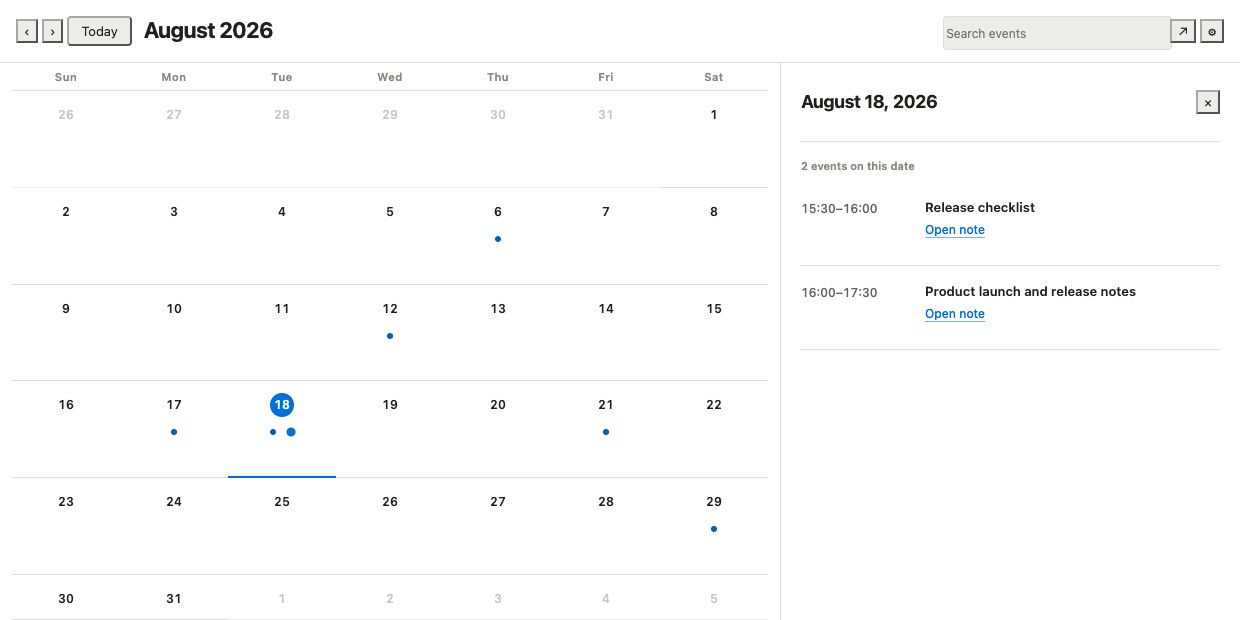
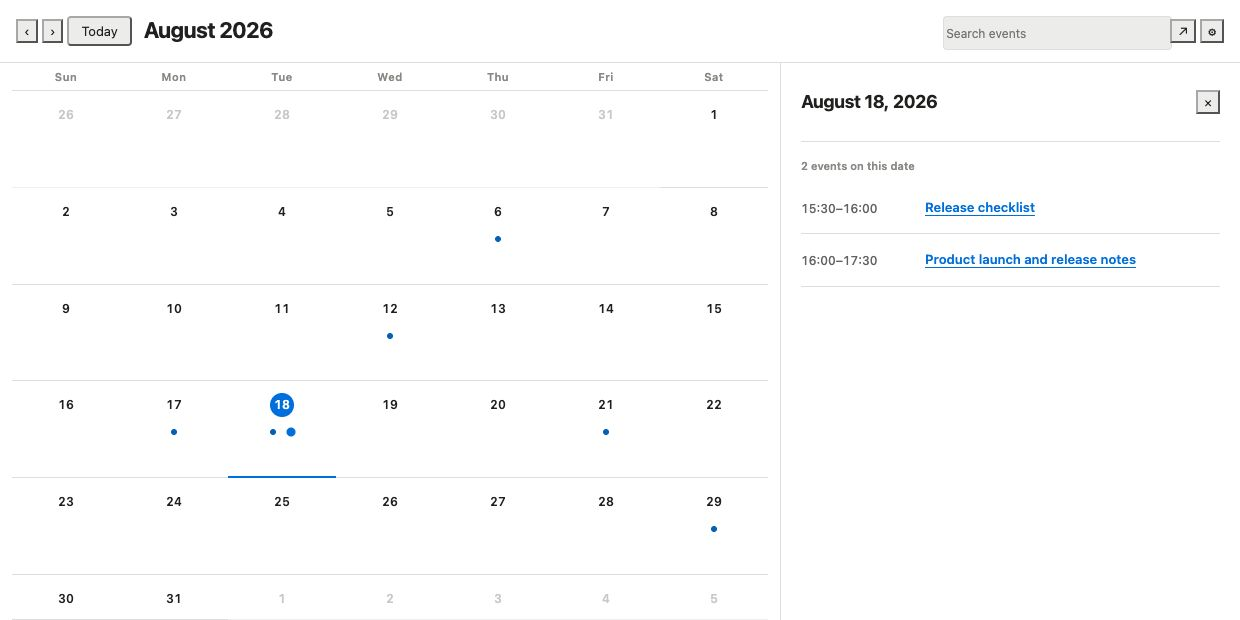
fix: use direct agenda title links

Changed region(s): [[0.7355, 0.3065, 0.9194, 0.521], [0.6435, 0.4597, 0.7048, 0.4903], [0.6435, 0.3984, 0.7048, 0.429]]

diff --git a/tests/fixtures/link-calendar-dark.html b/tests/fixtures/link-calendar-dark.html
@@ -4,7 +4,7 @@
   <meta charset="utf-8">
   <meta name="viewport" content="width=device-width, initial-scale=1">
   <title>Link Calendar dark fixture</title>
-  <link rel="stylesheet" href="../../styles.css">
+  <link rel="stylesheet" href="../../styles.css?v=3.1.3">
   <style>
     :root {
       --background-primary: #191919;
@@ -148,8 +148,8 @@
             <div class="link-calendar__side-topbar"><div class="link-calendar__side-date">August 18, 2026</div><button>×</button></div>
             <div class="link-calendar__agenda">
               <div class="link-calendar__agenda-label">2 events on this date</div>
-              <div class="link-calendar__agenda-item"><time class="link-calendar__agenda-time">15:30–16:00</time><div class="link-calendar__agenda-identity"><div class="link-calendar__agenda-title">Release checklist</div><button class="link-calendar__agenda-link" aria-label="Open note: Release checklist" title="Open note: Release checklist"></button></div></div>
-              <div class="link-calendar__agenda-item is-active"><time class="link-calendar__agenda-time">16:00–17:30</time><div class="link-calendar__agenda-identity"><div class="link-calendar__agenda-title">Product launch and release notes</div><button class="link-calendar__agenda-link" aria-label="Open note: Product launch and release notes" title="Open note: Product launch and release notes"></button></div></div>
+              <div class="link-calendar__agenda-item"><time class="link-calendar__agenda-time">15:30–16:00</time><div class="link-calendar__agenda-identity"><a class="link-calendar__agenda-link internal-link" href="Calendar/Release checklist.md" data-href="Calendar/Release checklist.md" aria-label="Open note: Release checklist" title="Open note: Release checklist">Release checklist</a></div></div>
+              <div class="link-calendar__agenda-item is-active"><time class="link-calendar__agenda-time">16:00–17:30</time><div class="link-calendar__agenda-identity"><a class="link-calendar__agenda-link internal-link" href="Calendar/Product launch and release notes.md" data-href="Calendar/Product launch and release notes.md" aria-label="Open note: Product launch and release notes" title="Open note: Product launch and release notes">Product launch and release notes</a></div></div>
             </div>
           </aside>
         </div>

diff --git a/styles.css b/styles.css
@@ -71,7 +71,6 @@
   --cc-calendar-day-number-size: calc(var(--cc-space-4) + var(--cc-space-2));
   --cc-calendar-grid-line: var(--border-width);
   --cc-calendar-agenda-time-min: 108px;
-  --cc-calendar-agenda-link-height: 28px;
   --cc-calendar-optical-shift: 2px;
   --cc-calendar-underline-offset: 3px;
   --cc-calendar-selected-offset: -1px;
@@ -576,41 +575,30 @@
   min-width: 0;
 }
 
-.link-calendar__agenda-title {
-  width: 100%;
+.link-calendar a.link-calendar__agenda-link {
+  display: block;
+  width: fit-content;
+  max-width: 100%;
   overflow: hidden;
-  color: var(--cc-text-primary);
+  color: var(--cc-accent);
   font-size: var(--cc-font-md);
   font-weight: var(--cc-weight-semibold);
   line-height: var(--cc-line-height);
+  text-decoration-line: underline;
+  text-decoration-thickness: from-font;
+  text-underline-offset: var(--cc-calendar-underline-offset);
   text-overflow: ellipsis;
   white-space: nowrap;
 }
 
-.link-calendar button.link-calendar__agenda-link {
-  display: inline-flex;
-  align-items: center;
-  justify-content: center;
-  width: var(--cc-calendar-agenda-link-height);
-  min-height: var(--cc-calendar-agenda-link-height);
-  margin: var(--cc-space-1) 0 0;
-  padding: 0;
-  border: 0;
-  border-radius: var(--cc-radius-sm);
-  color: var(--cc-accent);
-  background: transparent;
-  box-shadow: none;
-}
-
-.link-calendar button.link-calendar__agenda-link:hover {
+.link-calendar a.link-calendar__agenda-link:hover {
   color: var(--cc-accent-hover);
-  background: var(--cc-control-hover);
 }
 
-.link-calendar button.link-calendar__agenda-link svg {
-  width: var(--cc-icon-size);
-  height: var(--cc-icon-size);
-  stroke-width: 1.8;
+.link-calendar a.link-calendar__agenda-link:focus-visible {
+  border-radius: var(--cc-radius-xs);
+  outline: var(--cc-focus-width) solid var(--cc-focus);
+  outline-offset: var(--cc-space-1);
 }
 
 .link-calendar__diagnostics {

diff --git a/src/styles/event-detail.css b/src/styles/event-detail.css
@@ -90,41 +90,30 @@
   min-width: 0;
 }
 
-.link-calendar__agenda-title {
-  width: 100%;
+.link-calendar a.link-calendar__agenda-link {
+  display: block;
+  width: fit-content;
+  max-width: 100%;
   overflow: hidden;
-  color: var(--cc-text-primary);
+  color: var(--cc-accent);
   font-size: var(--cc-font-md);
   font-weight: var(--cc-weight-semibold);
   line-height: var(--cc-line-height);
+  text-decoration-line: underline;
+  text-decoration-thickness: from-font;
+  text-underline-offset: var(--cc-calendar-underline-offset);
   text-overflow: ellipsis;
   white-space: nowrap;
 }
 
-.link-calendar button.link-calendar__agenda-link {
-  display: inline-flex;
-  align-items: center;
-  justify-content: center;
-  width: var(--cc-calendar-agenda-link-height);
-  min-height: var(--cc-calendar-agenda-link-height);
-  margin: var(--cc-space-1) 0 0;
-  padding: 0;
-  border: 0;
-  border-radius: var(--cc-radius-sm);
-  color: var(--cc-accent);
-  background: transparent;
-  box-shadow: none;
-}
-
-.link-calendar button.link-calendar__agenda-link:hover {
+.link-calendar a.link-calendar__agenda-link:hover {
   color: var(--cc-accent-hover);
-  background: var(--cc-control-hover);
 }
 
-.link-calendar button.link-calendar__agenda-link svg {
-  width: var(--cc-icon-size);
-  height: var(--cc-icon-size);
-  stroke-width: 1.8;
+.link-calendar a.link-calendar__agenda-link:focus-visible {
+  border-radius: var(--cc-radius-xs);
+  outline: var(--cc-focus-width) solid var(--cc-focus);
+  outline-offset: var(--cc-space-1);
 }
 
 .link-calendar__diagnostics {

diff --git a/tests/view.test.ts b/tests/view.test.ts
@@ -114,7 +114,7 @@ describe("Link Calendar view", () => {
     await settle();
 
     expect(view.contentEl.querySelector(".link-calendar__side")).not.toBeNull();
-    expect(view.contentEl.querySelector(".link-calendar__agenda-title")?.textContent).toContain(
+    expect(view.contentEl.querySelector(".link-calendar__agenda-link")?.textContent).toContain(
       "Practical certification exam",
     );
     expect(view.contentEl.querySelector(".link-calendar__agenda-time")?.textContent).toBe(
@@ -123,9 +123,11 @@ describe("Link Calendar view", () => {
     expect(view.contentEl.querySelector(".link-calendar__preview")).toBeNull();
     expect(view.contentEl.querySelector(".link-calendar__properties")).toBeNull();
 
-    const openNote = view.contentEl.querySelector<HTMLButtonElement>(".link-calendar__agenda-link");
+    const openNote = view.contentEl.querySelector<HTMLAnchorElement>(".link-calendar__agenda-link");
     expect(openNote?.getAttribute("aria-label")).toContain("Open note");
-    expect(openNote?.dataset.icon).toBe("arrow-up-right");
+    expect(openNote?.classList.contains("internal-link")).toBe(true);
+    expect(openNote?.getAttribute("href")).toBe("Calendar/Exam.md");
+    expect(openNote?.dataset.href).toBe("Calendar/Exam.md");
     openNote?.click();
     expect(vi.mocked(currentActions.open)).toHaveBeenCalledWith("Calendar/Exam.md");
   });

diff --git a/src/view.ts b/src/view.ts
@@ -551,17 +551,20 @@ export class LinkCalendarView extends ItemView {
         text: formatEventTimeRange(event),
       });
       const identity = item.createDiv({ cls: "link-calendar__agenda-identity" });
-      identity.createDiv({ cls: "link-calendar__agenda-title", text: event.title });
-      const link = identity.createEl("button", {
-        cls: "link-calendar__agenda-link",
+      const link = identity.createEl("a", {
+        cls: "link-calendar__agenda-link internal-link",
+        text: event.title,
         title: `${translate(settings.locale, "open")}: ${event.title}`,
         attr: {
           "aria-label": `${translate(settings.locale, "open")}: ${event.title}`,
-          type: "button",
+          "data-href": event.filePath,
+          href: event.filePath,
         },
       });
-      setIcon(link, "arrow-up-right");
-      link.onclick = () => void this.actions.open(event.filePath);
+      link.onclick = (mouseEvent) => {
+        mouseEvent.preventDefault();
+        void this.actions.open(event.filePath);
+      };
     }
   }
 

diff --git a/src/styles/tokens.css b/src/styles/tokens.css
@@ -71,7 +71,6 @@
   --cc-calendar-day-number-size: calc(var(--cc-space-4) + var(--cc-space-2));
   --cc-calendar-grid-line: var(--border-width);
   --cc-calendar-agenda-time-min: 108px;
-  --cc-calendar-agenda-link-height: 28px;
   --cc-calendar-optical-shift: 2px;
   --cc-calendar-underline-offset: 3px;
   --cc-calendar-selected-offset: -1px;

diff --git a/docs/design-qa.md b/docs/design-qa.md
@@ -16,7 +16,7 @@
 | Typography and density | passed | Dates, times, titles, and direct note links are the only event text. |
 | Shape and separation | passed | Calendar weeks and agenda entries use hairlines; event cards, chips, badges, shadows, and selected-event panels are absent. |
 | Colour and state | passed | One host accent identifies event dots, today, and the selected column; category colours do not compete with navigation. |
-| Canonical navigation | passed | Each agenda row exposes one `arrow-up-right` icon with a tooltip and accessible name; runtime activation opened the original Markdown note. |
+| Canonical navigation | passed | Each agenda title is the familiar underlined internal link itself; activation opens the original Markdown note without a separate icon action. |
 | Responsive layout | passed | The agenda remains adjacent at wide widths and becomes a bounded overlay only when the host pane cannot preserve both surfaces. |
 | Light and dark themes | passed | Both captures retain divider visibility, readable muted text, and the same hierarchy without plugin-owned card colours. |
 
@@ -33,6 +33,7 @@
 
 1. Rejected coloured month cards and the duplicated selected-event detail panel.
 2. Replaced event titles in cells with up to three dots and an overflow count.
-3. Replaced agenda cards with `time → title → canonical note link` rows and moved all times to compact 24-hour ranges.
+3. Replaced agenda cards with `time → canonical note link` rows and moved all times to compact 24-hour ranges.
+4. Removed the ambiguous arrow icon and made the visible agenda title the direct internal link.
 
 final result: passed

diff --git a/README.md b/README.md
@@ -48,7 +48,7 @@ The default mappings are `date`, `end`, `startTime`, `endTime`, `allDay`, `title
 ## Navigation
 
 - Select a day or event dot to open the daily agenda.
-- Select the `arrow-up-right` icon beside an agenda title to open the canonical Markdown note.
+- Select an underlined agenda title to open the canonical Markdown note directly.
 - Press `Cmd/Ctrl + Enter` on an event dot to open its note directly.
 - Run **Reveal active note in calendar** to locate the current dated note.
 - Use arrow keys on the month grid to move the selected day; `Enter` or `Space` opens its agenda.

diff --git a/CHANGELOG.md b/CHANGELOG.md
@@ -1,5 +1,9 @@
 # Changelog
 
+## 3.1.3
+
+- Replace the agenda's ambiguous arrow action with a familiar underlined title link that opens the canonical Markdown note directly.
+
 ## 3.1.2
 
 - Replace the agenda's repeated `Open note` text with one Lucide `file-up-right` action, tooltip, and accessible name.
